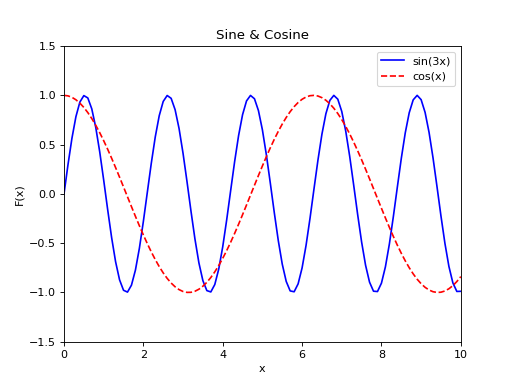
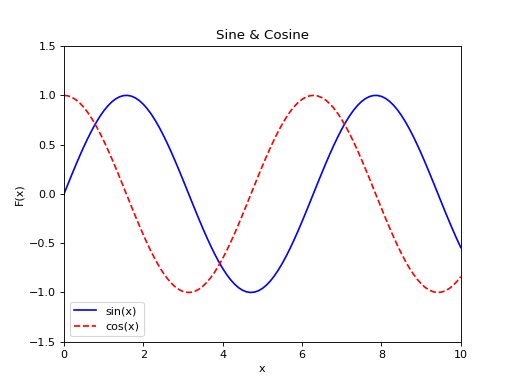
0017: done

diff --git a/5.DataPublication/5.1.web-server_creating/index.html b/5.DataPublication/5.1.web-server_creating/index.html
@@ -1,0 +1,14 @@
+<!DOCTYPE HTML>
+<html>
+<head>
+<meta charset="utf-8">
+<title>Обработка данных форм</title>
+</head>
+<body>
+    <form action="/cgi-bin/form.py">
+        <input type="text" name="TEXT_1">
+        <input type="text" name="TEXT_2">
+        <input type="submit">
+    </form>
+</body>
+</html>

diff --git a/5.DataPublication/5.1.1.ex/index.html b/5.DataPublication/5.1.1.ex/index.html
@@ -1,0 +1,19 @@
+<!DOCTYPE html>
+<html lang="en">
+<head>
+    <meta charset="UTF-8">
+    <title>Table</title>
+</head>
+<body>
+    <table>
+        <tr>
+            <td>1</td>
+            <td>2</td>
+        </tr>
+        <tr>
+            <td>3</td>
+            <td>4</td>
+        </tr>
+    </table>
+</body>
+</html>

diff --git a/5.DataPublication/5.2.1.ex/index.html b/5.DataPublication/5.2.1.ex/index.html
@@ -1,0 +1,13 @@
+<!DOCTYPE HTML>
+<html>
+<head>
+<meta charset="utf-8">
+<title>Обработка данных форм</title>
+</head>
+<body>
+    <form action="/cgi-bin/form.py">
+        <input type="text" name="INPUT_TEXT">
+        <input type="submit" value="отправить">
+    </form>
+</body>
+</html>

diff --git a/5.DataPublication/5.2.form_processing/index.html b/5.DataPublication/5.2.form_processing/index.html
@@ -1,0 +1,13 @@
+<!DOCTYPE HTML>
+<html>
+<head>
+<meta charset="utf-8">
+<title>Обработка данных форм</title>
+</head>
+<body>
+    <form action="/cgi-bin/form.py">
+        <input type="text" name="INPUT_TEXT">
+        <input type="submit" value="отправить">
+    </form>
+</body>
+</html>

diff --git a/4.VisualizationPyplot/4.4.size.py b/4.VisualizationPyplot/4.4.size.py
@@ -1,0 +1,38 @@
+#!/usr/bin/env python3
+# vim: set ai et ts=4 sw=4:
+
+import matplotlib as mpl
+import matplotlib.pyplot as plt
+import matplotlib.dates as mdates
+import datetime as dt
+import csv
+
+data_names = ['cafe', 'pharmacy', 'fuel', 'bank', 'waste_disposal',
+              'atm', 'bench', 'parking', 'restaurant',
+              'place_of_worship']
+data_values = [9124, 8652, 7592, 7515, 7041, 6487, 6374, 6277,
+               5092, 3629]
+
+dpi = 80
+fig = plt.figure(dpi = dpi, figsize = (1024 / dpi, 768 / dpi) )
+mpl.rcParams.update({'font.size': 10})
+
+plt.title('OpenStreetMap Point Types')
+
+ax = plt.axes()
+ax.yaxis.grid(True, zorder = 1)
+
+xs = range(len(data_names))
+
+plt.bar([x + 0.05 for x in xs], [ d * 0.9 for d in data_values],
+        width = 0.2, color = 'red', alpha = 0.7, label = '2016',
+        zorder = 2)
+plt.bar([x + 0.3 for x in xs], data_values,
+        width = 0.2, color = 'blue', alpha = 0.7, label = '2017',
+        zorder = 2)
+plt.xticks(xs, data_names)
+
+fig.autofmt_xdate(rotation = 25)
+
+plt.legend(loc='upper right')
+fig.savefig('bars.png')

diff --git a/4.VisualizationPyplot/4.3.legend.py b/4.VisualizationPyplot/4.3.legend.py
@@ -1,0 +1,35 @@
+#!/usr/bin/env python3
+# vim: set ai et ts=4 sw=4:
+
+import matplotlib as mpl
+import matplotlib.pyplot as plt
+import math
+
+dpi = 80
+fig = plt.figure(dpi = dpi, figsize = (512 / dpi, 384 / dpi) )
+mpl.rcParams.update({'font.size': 10})
+
+plt.axis([0, 10, -1.5, 1.5])
+
+plt.title('Sine & Cosine')
+plt.xlabel('x')
+plt.ylabel('F(x)')
+
+xs = []
+sin_vals = []
+cos_vals = []
+
+x = 0.0
+while x < 10.0:
+    sin_vals += [ math.sin(x) ]
+    cos_vals += [ math.cos(x) ]
+    xs += [x]
+    x += 0.1
+
+plt.plot(xs, sin_vals, color = 'blue', linestyle = 'solid',
+         label = 'sin(x)')
+plt.plot(xs, cos_vals, color = 'red', linestyle = 'dashed',
+         label = 'cos(x)')
+
+plt.legend(loc = 'lower left')
+fig.savefig('trigan.png')

diff --git a/5.DataPublication/5.1.web-server_creating/cgi-bin/form.py b/5.DataPublication/5.1.web-server_creating/cgi-bin/form.py
@@ -1,0 +1,22 @@
+#!/usr/bin/env python3
+import cgi
+import html
+
+form = cgi.FieldStorage()
+text1 = form.getfirst("TEXT_1", "не задано")
+text2 = form.getfirst("TEXT_2", "не задано")
+text1 = html.escape(text1)
+text2 = html.escape(text2)
+
+print("Content-type: text/html\n")
+print("""<!DOCTYPE HTML>
+        <html>
+        <body>""")
+
+print("<table>")
+print("</table>")
+print("<p>TEXT_1: {}</p>".format(text1))
+print("<p>TEXT_2: {}</p>".format(text2))
+
+print("""</body>
+        </html>""")

diff --git a/5.DataPublication/5.2.form_processing/cgi-bin/form.py b/5.DataPublication/5.2.form_processing/cgi-bin/form.py
@@ -1,0 +1,26 @@
+#!/usr/bin/env python3
+import cgi
+
+
+def ohash(s):
+    ans = 0
+    for c in s:
+        ans = ans * 123417 + ord(c)
+    return ans
+
+
+form = cgi.FieldStorage()
+text = form.getfirst("INPUT_TEXT", "не задано")
+
+print("Content-type: text/html\n")
+print("""<!DOCTYPE HTML>
+        <html>
+        <head>
+            <meta charset="utf-8">
+        </head>
+        <body>""")
+
+print("<h1>" + str(ohash(text)) + "</h1>")
+
+print("""</body>
+        </html>""")

diff --git a/5.DataPublication/5.2.1.ex/cgi-bin/form.py b/5.DataPublication/5.2.1.ex/cgi-bin/form.py
@@ -1,0 +1,20 @@
+#!/usr/bin/env python3
+import cgi
+
+form = cgi.FieldStorage()
+text = form.getfirst("INPUT_TEXT", "не задано")
+text = text[:-1]
+
+print("Content-type: text/html\n")
+print("""<!DOCTYPE HTML>
+        <html>
+        <head>
+            <meta charset="utf-8">
+        </head>
+        <body>""")
+
+for i in range(1, len(text), 2):
+    print("<h1>" + str(hash(text[i])) + "</h1>")
+
+print("""</body>
+        </html>""")

diff --git a/5.DataPublication/5.1.web-server_creating/cgi-bin/cookie.py b/5.DataPublication/5.1.web-server_creating/cgi-bin/cookie.py
@@ -1,0 +1,14 @@
+#!/usr/bin/env python3
+import os
+import http.cookies
+
+cookie = http.cookies.SimpleCookie(os.environ.get("HTTP_COOKIE"))
+name = cookie.get("name")
+if name is None:
+    print("Set-cookie: name=value")
+    print("Content-type: text/html\n")
+    print("Cookies!!!")
+else:
+    print("Content-type: text/html\n")
+    print("Cookies:")
+    print(name.value)

diff --git a/5.DataPublication/5.1.3.ex/cgi-bin/create_href_table.py b/5.DataPublication/5.1.3.ex/cgi-bin/create_href_table.py
@@ -1,0 +1,20 @@
+#!/usr/bin/env python3
+import cgi
+import html
+
+print("Content-type: text/html\n")
+print("<html><body>")
+
+
+print("<table>")
+
+for i in range(1, 11):
+    print("<tr>")
+    for j in range(1, 11):
+        print(f'<td><a href="http://{i * j}.ru">{i * j}</a></td>')
+
+    print("</tr>")
+
+print("</table>")
+
+print("</body></html>")

diff --git a/5.DataPublication/5.1.2.ex/cgi-bin/create_table.py b/5.DataPublication/5.1.2.ex/cgi-bin/create_table.py
@@ -1,0 +1,22 @@
+#!/usr/bin/env python3
+import cgi
+import html
+
+print("Content-type: text/html\n")
+print("""<html>
+        <body>""")
+
+
+print("<table>")
+
+for i in range(1, 11):
+    print("<tr>")
+    for j in range(1, 11):
+        print(f"<td>{i * j}</td>")
+
+    print("</tr>")
+
+print("</table>")
+
+print("""</body>
+        </html>""")
